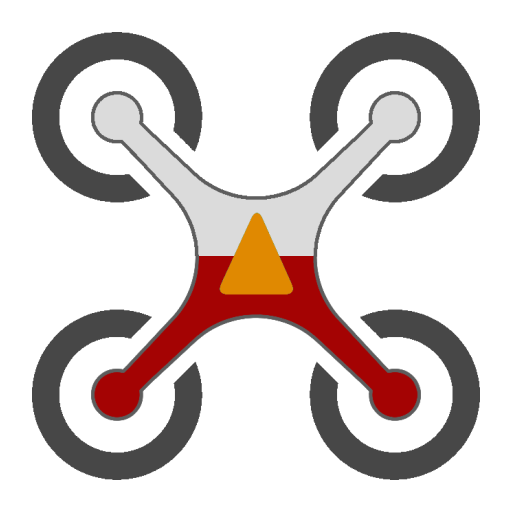
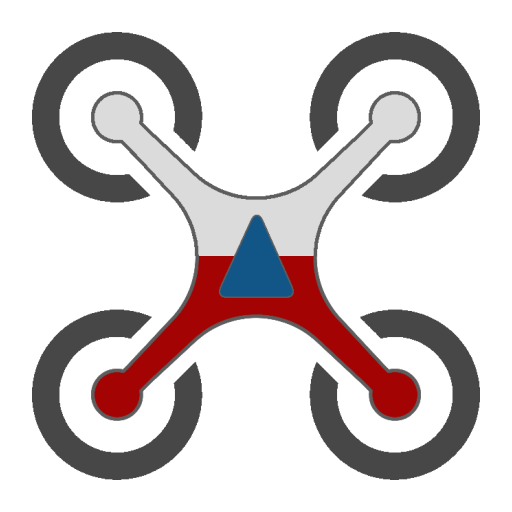
type added

Changed region(s): [[0.4062, 0.4062, 0.5938, 0.5938]]

diff --git a/app/src/main/java/com/diogoperes/mobilecontrolstation/utils/Type.java b/app/src/main/java/com/diogoperes/mobilecontrolstation/utils/Type.java
@@ -1,5 +1,7 @@
 package com.diogoperes.mobilecontrolstation.utils;
 
+import com.diogoperes.mobilecontrolstation.R;
+
 /**
  * Created by PC1 on 21-Mar-16.
  */
@@ -7,34 +9,58 @@ public enum Type {
 
 
 
-    UNDEFINED,
-    MAV_TYPE_GENERIC,
-    MAV_TYPE_FIXED_WING,
-    MAV_TYPE_QUADROTOR,
-    MAV_TYPE_COAXIAL,
-    MAV_TYPE_HELICOPTER,
-    MAV_TYPE_ANTENNA_TRACKER,
-    MAV_TYPE_GCS,
-    MAV_TYPE_AIRSHIP,
-    MAV_TYPE_FREE_BALLOON,
-    MAV_TYPE_ROCKET,
-    MAV_TYPE_GROUND_ROVER,
-    MAV_TYPE_SURFACE_BOAT,
-    MAV_TYPE_SUBMARINE,
-    MAV_TYPE_HEXAROTOR,
-    MAV_TYPE_OCTOROTOR,
-    MAV_TYPE_TRICOPTER,
-    MAV_TYPE_FLAPPING_WING,
-    MAV_TYPE_KITE,
-    MAV_TYPE_ONBOARD_CONTROLLER,
-    MAV_TYPE_VTOL_DUOROTOR,
-    MAV_TYPE_VTOL_QUADROTOR,
-    MAV_TYPE_VTOL_TILTROTOR,
-    MAV_TYPE_VTOL_RESERVED2,
-    MAV_TYPE_VTOL_RESERVED3,
-    MAV_TYPE_VTOL_RESERVED4,
-    MAV_TYPE_VTOL_RESERVED5,
-    MAV_TYPE_GIMBAL,
-    MAV_TYPE_ADSB,
+    UNDEFINED(-1, R.mipmap.ic_marker_undefined),
+    MAV_TYPE_GENERIC(0, R.mipmap.ic_marker_undefined),
+    MAV_TYPE_FIXED_WING(1, R.mipmap.ic_marker_undefined),
+    MAV_TYPE_QUADROTOR(2,R.mipmap.ic_marker_quad),
+    MAV_TYPE_COAXIAL(3,R.mipmap.ic_marker_undefined),
+    MAV_TYPE_HELICOPTER(4,R.mipmap.ic_marker_undefined),
+    MAV_TYPE_ANTENNA_TRACKER(5,R.mipmap.ic_marker_undefined),
+    MAV_TYPE_GCS(6,R.mipmap.ic_marker_undefined),
+    MAV_TYPE_AIRSHIP(7,R.mipmap.ic_marker_undefined),
+    MAV_TYPE_FREE_BALLOON(8,R.mipmap.ic_marker_undefined),
+    MAV_TYPE_ROCKET(9,R.mipmap.ic_marker_undefined),
+    MAV_TYPE_GROUND_ROVER(10, R.mipmap.ic_marker_undefined),
+    MAV_TYPE_SURFACE_BOAT(11,R.mipmap.ic_marker_undefined),
+    MAV_TYPE_SUBMARINE(12,R.mipmap.ic_marker_undefined),
+    MAV_TYPE_HEXAROTOR(13,R.mipmap.ic_marker_undefined),
+    MAV_TYPE_OCTOROTOR(14,R.mipmap.ic_marker_undefined),
+    MAV_TYPE_TRICOPTER(15,R.mipmap.ic_marker_undefined),
+    MAV_TYPE_FLAPPING_WING(16,R.mipmap.ic_marker_undefined),
+    MAV_TYPE_KITE(17,R.mipmap.ic_marker_undefined),
+    MAV_TYPE_ONBOARD_CONTROLLER(18,R.mipmap.ic_marker_undefined),
+    MAV_TYPE_VTOL_DUOROTOR(19,R.mipmap.ic_marker_undefined),
+    MAV_TYPE_VTOL_QUADROTOR(20,R.mipmap.ic_marker_undefined),
+    MAV_TYPE_VTOL_TILTROTOR(21,R.mipmap.ic_marker_undefined),
+    MAV_TYPE_VTOL_RESERVED2(22,R.mipmap.ic_marker_undefined),
+    MAV_TYPE_VTOL_RESERVED3(23,R.mipmap.ic_marker_undefined),
+    MAV_TYPE_VTOL_RESERVED4(24,R.mipmap.ic_marker_undefined),
+    MAV_TYPE_VTOL_RESERVED5(25,R.mipmap.ic_marker_undefined),
+    MAV_TYPE_GIMBAL(26,R.mipmap.ic_marker_undefined),
+    MAV_TYPE_ADSB(27,R.mipmap.ic_marker_undefined);
 
+    Type(int i, int image) {
+        this.index = i;
+        this.icon = image;
+    }
+
+    private int index;
+    private int icon;
+
+    public int getIndex() {
+        return index;
+    }
+
+    public int getIcon() {
+        return icon;
+    }
+
+    public static Type getByIndex(int value) {
+        for(Type e: Type.values()) {
+            if(e.getIndex() == value) {
+                return e;
+            }
+        }
+        return null;// not found
+    }
 }

diff --git a/app/src/main/java/com/diogoperes/mobilecontrolstation/MessageHandler.java b/app/src/main/java/com/diogoperes/mobilecontrolstation/MessageHandler.java
@@ -130,7 +130,13 @@ public class MessageHandler {
     }
 
     private void setUVType(int type) {
-        switch (type) {
+        if(type>=0 && type<=27 && Type.getByIndex(type)!=null){
+            uv.setType(Type.getByIndex(type));
+        }else{
+            uv.setType(Type.UNDEFINED);
+        }
+
+        /*switch (type) {
             case 0: //Generic micro air vehicle
                 uv.setType(Type.MAV_TYPE_GENERIC);
                 break;
@@ -216,7 +222,7 @@ public class MessageHandler {
                 uv.setType(Type.MAV_TYPE_ADSB);
                 break;
 
-        }
+        }*/
     }
 
     public boolean is_selected(){

diff --git a/app/src/main/java/com/diogoperes/mobilecontrolstation/fragments/MissionsFragment.java b/app/src/main/java/com/diogoperes/mobilecontrolstation/fragments/MissionsFragment.java
@@ -134,7 +134,7 @@ public class MissionsFragment extends Fragment {
                             .position(newLocationCoordinates)
                             .title("Thor" + markerIndex++)
                             .anchor(0.5f, 0.5f)
-                            .icon(BitmapDescriptorFactory.fromResource(R.mipmap.ic_marker_quad))
+                            .icon(BitmapDescriptorFactory.fromResource(uv.getType().getIcon()))
                             .rotation(rotation));
 
                     uv.getMarkers_list().add(newLocationMarker);
